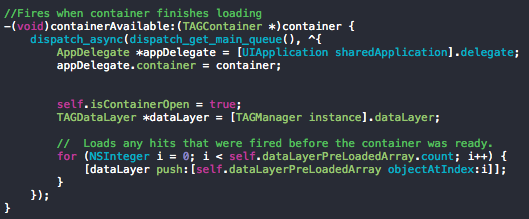
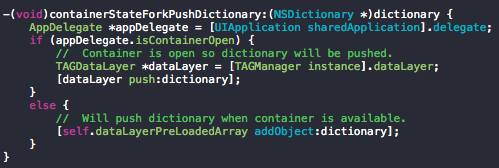
Changed images

Changed region(s): [[0.0, 0.0298, 0.992, 0.5655], [0.0601, 0.5952, 0.9619, 0.9226], [0.0, 0.8929, 0.0301, 0.9821]]

diff --git a/TestShop/ShopViewController.m b/TestShop/ShopViewController.m
@@ -28,7 +28,7 @@
 @property (strong, nonatomic) NSString *screenName;
 
 @property (strong, nonatomic) NSMutableArray *dataLayerPreLoadedArray;
-@property BOOL isContainerOpen;
+
 
 @end
 
@@ -39,7 +39,6 @@
     
     //  Setting GTM DataLayer Values for DataLayer Macros. Shop View will the the value for the "screenName" key.
     self.screenName = @"Shop View";
-    self.isContainerOpen = false;
     
     NSLog(@"viewDidLoad");
     
@@ -71,7 +70,7 @@
         appDelegate.container = container;
         [appDelegate.container refresh];
         NSLog(@"Container availiable");
-        self.isContainerOpen = true;
+        appDelegate.isContainerOpen = true;
         TAGDataLayer *dataLayer = [TAGManager instance].dataLayer;
         
         //  Loads any hits that were fired before the container was ready.
@@ -158,7 +157,8 @@
 }
 
 -(void)containerStateForkPushDictionary:(NSDictionary *)dictionary {
-    if (self.isContainerOpen) {
+    AppDelegate *appDelegate = [UIApplication sharedApplication].delegate;
+    if (appDelegate.isContainerOpen) {
         //  Container is open so dictionary will be pushed.
         TAGDataLayer *dataLayer = [TAGManager instance].dataLayer;
         [dataLayer push:dictionary];

diff --git a/TestShop/AppDelegate.m b/TestShop/AppDelegate.m
@@ -20,6 +20,8 @@
 
 
 - (BOOL)application:(UIApplication *)application didFinishLaunchingWithOptions:(NSDictionary *)launchOptions {
+    self.isContainerOpen = false;
+    
     //  Get singleton of TAGManager
     self.tagManager = [TAGManager instance];
     
@@ -36,6 +38,7 @@
                                    notifier:(ShopViewController<TAGContainerOpenerNotifier> *)navController.viewControllers[0]];
     NSTimeInterval dispatchTime = 5;
     [self.tagManager setDispatchInterval:dispatchTime];
+
     return YES;
 }
 

diff --git a/TestShop/DetailViewController.m b/TestShop/DetailViewController.m
@@ -26,6 +26,7 @@
     self.costLabel.text = [NSString stringWithFormat:@"$%ld.00", (long)self.item.cost];
     self.descriptionLabel.text = self.item.itemDescription;
     self.numberInCartLabel.text = [NSString stringWithFormat:@"%ld in Cart", (long)self.item.count];
+    NSLog(@"ViewDIDLOAD");
 }
 
 -(void)viewWillAppear:(BOOL)animated {

diff --git a/TestShop/AppDelegate.h b/TestShop/AppDelegate.h
@@ -20,6 +20,8 @@
 @property (strong, nonatomic) TAGManager *tagManager;
 @property (strong, nonatomic) TAGContainer *container;
 
+@property BOOL isContainerOpen;
+
 
 @end
 
